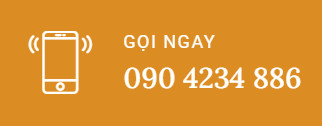
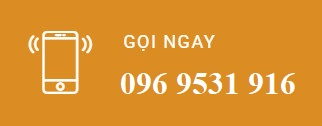
update

Changed region(s): [[0.3727, 0.5238, 0.9317, 0.7619], [0.0932, 0.2381, 0.3106, 0.7619], [0.3727, 0.2619, 0.6832, 0.4048]]

diff --git a/src/components/footer/footer.css b/src/components/footer/footer.css
@@ -11,22 +11,215 @@
     padding: 10px;
     border: 2px solid #535353;
     border-radius: 50%;
-    /* margin: 10px; */
-    /* position: fixed; */
-    /* bottom: 20px;
-    right: 30px;
-    z-index: 99;
-    font-size: 18px;
-    border: none;
-    outline: none;
-    background-color: red;
-    color: white;
-    cursor: pointer;
-    padding: 15px;
-    border-radius: 4px; */
 }
 .fWohKN {
     display: flex;
     justify-content: center;
     align-items: center;
+}
+.zalo {
+    display: block;
+    left: 30px;
+    bottom: 120px;
+    position: fixed;
+    z-index: 8000;
+    text-align: center;
+    height: 40px;
+    line-height: 40px;
+    font-size: 14px;
+    text-shadow: 1px 1px 0 #000;
+    border-radius: 40px;
+    cursor: pointer;
+    max-width: 250px;
+    overflow: hidden;
+    white-space: nowrap;
+    text-overflow: ellipsis;
+    background: #009dff;
+    display: flex;
+    flex-direction: row;
+}
+.zalo img {
+    width: 30px;
+    height: 30px;
+    margin: 5px;
+}
+.zalo span {
+    color: #ffffff;
+    margin: 0 15px 0 5px;
+    align-items: center;
+    text-align: center;
+    justify-content: center;
+    font-weight: 600;
+}
+.zalo a {
+    display: flex;
+    text-decoration: none;
+}
+.hot-phone {
+    position: fixed;
+    bottom: 0;
+    left: 0;
+    z-index: 8001;
+}
+@keyframes quick-alo-circle-anim {
+    0% {
+        -webkit-transform: rotate(0) scale(0.5) skew(1deg);
+        -webkit-opacity: 0.1;
+    }
+    30% {
+        -webkit-transform: rotate(0) scale(0.7) skew(1deg);
+        -webkit-opacity: 0.5;
+    }
+    100% {
+        -webkit-transform: rotate(0) scale(1) skew(1deg);
+        -webkit-opacity: 0.1;
+    }
+}
+@keyframes quick-alo-circle-fill-anim {
+    0% {
+        -webkit-transform: rotate(0) scale(0.7) skew(1deg);
+        opacity: 0.2;
+    }
+    50% {
+        -webkit-transform: rotate(0) scale(1) skew(1deg);
+        opacity: 0.2;
+    }
+    100% {
+        -webkit-transform: rotate(0) scale(0.7) skew(1deg);
+        opacity: 0.2;
+    }
+}
+@keyframes quick-alo-circle-img-anim {
+    0% {
+        transform: rotate(0) scale(1) skew(1deg);
+    }
+    10% {
+        transform: rotate(-25deg) scale(1) skew(1deg);
+    }
+    20% {
+        transform: rotate(25deg) scale(1) skew(1deg);
+    }
+    30% {
+        transform: rotate(-25deg) scale(1) skew(1deg);
+    }
+    40% {
+        transform: rotate(25deg) scale(1) skew(1deg);
+    }
+    50% {
+        transform: rotate(0) scale(1) skew(1deg);
+    }
+    100% {
+        transform: rotate(0) scale(1) skew(1deg);
+    }
+}
+.hotline-phone-ring {
+    position: relative;
+    visibility: visible;
+    background-color: transparent;
+    width: 110px;
+    height: 110px;
+    cursor: pointer;
+    z-index: 11;
+    transition: visibility 0.5s;
+    left: 0;
+    bottom: 0;
+    display: block;
+}
+.quick-alo-ph-circle {
+    top: 0;
+    left: 0;
+    width: 110px;
+    height: 110px;
+    position: absolute;
+    background-color: transparent;
+    border-radius: 100%;
+    border: 2px solid rgba(30, 30, 30, 0.4);
+    opacity: 0.1;
+    animation: quick-alo-circle-anim 1.2s infinite ease-in-out;
+    transition: all 0.5s;
+    transform-origin: 50% 50%;
+    -webkit-border-radius: 100%;
+    -moz-border-radius: 100%;
+    border-radius: 100%;
+    border: 2px solid rgba(30, 30, 30, 0.4);
+    opacity: 0.1;
+}
+
+.quick-alo-ph-circle-fill {
+    background: rgb(216, 32, 0, 0.7) !important;
+    position: absolute;
+    border-radius: 100%;
+    border: 2px solid transparent;
+    opacity: 0.1;
+    animation: quick-alo-circle-fill-anim 2.3s infinite ease-in-out;
+    transition: all 0.5s;
+    transform-origin: 50% 50%;
+}
+
+.quick-alo-ph-img-circle {
+    z-index: 10;
+    top: 31px;
+    left: 31px;
+    width: 50px;
+    height: 50px;
+    background: #337ab7;
+    opacity: 1;
+    display: -webkit-box;
+    display: -webkit-flex;
+    display: -ms-flexbox;
+    display: flex;
+    align-items: center;
+    justify-content: center;
+    background-color: #d82000 !important;
+    position: absolute;
+    border-radius: 100%;
+    border: 2px solid transparent;
+    animation: quick-alo-circle-img-anim 1s infinite ease-in-out;
+    transform-origin: 50% 50%;
+}
+.pps-btn-img {
+    display: flex;
+    transition: all 0.3s ease-in-out;
+    color: #5e2e86;
+    text-decoration: none;
+    background-color: transparent;
+}
+.pps-btn-img img {
+    width: 33px;
+    height: 33px;
+    max-width: 100%;
+    vertical-align: middle;
+    border-style: none;
+}
+.hotline-bar {
+    position: absolute;
+    background: #337ab7;
+    height: 45px;
+    white-space: nowrap;
+    line-height: 40px;
+    border-radius: 3px;
+    padding: 0 10px;
+    background-size: 100%;
+    cursor: pointer;
+    transition: all 0.8s;
+    -webkit-transition: all 0.8s;
+    z-index: 9;
+    border-radius: 50px !important;
+    left: 42px;
+    bottom: 31px;
+    background-color: #d82000 !important;
+    display: block !important;
+}
+.hotline-bar a {
+    color: #fff;
+    text-decoration: none;
+    font-size: 16px;
+    font-weight: bold;
+    text-indent: 32px;
+    letter-spacing: 1px;
+    display: block;
+    line-height: 45px;
+    transition: all 0.3s ease-in-out;
+    background-color: transparent;
+    cursor: pointer;
 }

diff --git a/src/components/footer/Hotline.js b/src/components/footer/Hotline.js
@@ -1,0 +1,39 @@
+import React from "react";
+// import "./index.css";
+import zaloicon from "../../img/zalo.png";
+import phone2 from "../../img/icon-phone2.png";
+const Hotline = () => {
+    return (
+        <div className="hotline-phone">
+            <div className="hot-phone">
+                <div className="hotline-phone-ring">
+                    <div className="quick-alo-ph-circle"></div>
+                    <div className="quick-alo-ph-circle-fill"></div>
+                </div>
+                <div className="quick-alo-ph-img-circle">
+                    <a className="pps-btn-img" href="tel:0969531916">
+                        <img src={phone2} alt="Số điện thoại" width="50" />
+                    </a>
+                </div>
+                <div className="hotline-bar">
+                    <a href="tel:0969531916">
+                        <span className="text-hotline">096 9531 916</span>
+                    </a>
+                </div>
+            </div>
+            <div className="zalo">
+                <a
+                    // without="true"
+                    rel="noopener noreferrer"
+                    target="_blank"
+                    href="https://zalo.me/0987978613"
+                >
+                    {" "}
+                    <img src={zaloicon} alt="zalo" />
+                    <span>Chat Zalo</span>
+                </a>
+            </div>
+        </div>
+    );
+};
+export default Hotline;

diff --git a/src/components/content/index/Home.js b/src/components/content/index/Home.js
@@ -311,9 +311,9 @@ const DauTuSinhLoi = () => {
                     tiến độ 6 đợt trong 15 tháng không mất lãi.
                 </p>
                 <div className="width-58 padding-15">
-                    <a href="tel:0904234886" target="_self">
+                    <a href="tel:0969531916" target="_self">
                         <button className="text-700-24-38 btn-tel">
-                            GỌI NGAY 090 4234 886
+                            GỌI NGAY 096 9531 916
                         </button>
                     </a>
                 </div>
@@ -399,13 +399,13 @@ const Contact = () => {
                     <p className="text-400-16-26">
                         Với đội ngũ tư vấn chuyên nghiệp
                     </p>
-                    <a href="tel:0904234886" className="text-700-16-25 link">
+                    <a href="tel:0969531916" className="text-700-16-25 link">
                         <img
                             className="icon-phone"
                             src={iconphone}
                             alt="Phone"
                         />
-                        HOTLINE : 090 4234 886
+                        HOTLINE : 096 9531 916
                     </a>
                 </div>
 

diff --git a/src/components/content/news/DatNenDanko.js b/src/components/content/news/DatNenDanko.js
@@ -91,7 +91,7 @@ const DatNenDanko = ({ setHash }) => {
                             <br />
                             Thời điểm bàn giao: Quý III, 2021
                             <br />
-                            Hotline:090 4234 886
+                            Hotline: 096 9531 916
                         </p>
 
                         <p>
@@ -136,7 +136,7 @@ const DatNenDanko = ({ setHash }) => {
                             bộ, wifi phủ sóng toàn bộ, camera an ninh 24/7. –
                             Đóng tiền 6 đợt trong 15 tháng, vào hợp đồng chỉ từ
                             400 triệu, tính thanh khoản và tiềm năng tăng giá
-                            cao – Hotline ban kinh doanh: 090 4234 886
+                            cao – Hotline ban kinh doanh: 096 9531 916
                         </p>
                         <p>
                             Việc quy hoạch một khu đô thị cao cấp tại Thái

diff --git a/src/components/forminfo/forminfo.css b/src/components/forminfo/forminfo.css
@@ -33,8 +33,7 @@
     background-color: #efefef;
     font-family: "Noto Sans";
     position: relative;
-    z-index: 9999;
-    /* top: 25%; */
+    z-index: 9003;
     transition: all 0.2s ease-in-out;
     transform: translate(0, 0px);
 }
@@ -61,10 +60,8 @@
 .head-info div {
     padding: 5px 10px;
     text-align: center;
-    /* margin: auto; */
     color: #ffffff;
     background-color: #e09e1a;
-    /* height: 100%; */
     display: flex;
     align-items: center;
     justify-content: center;

diff --git a/src/App.js b/src/App.js
@@ -13,6 +13,7 @@ import {
     Redirect,
 } from "react-router-dom";
 import Footer from "./components/footer/Footer";
+import Hotline from "./components/footer/Hotline";
 // import { Drawer } from "antd";
 // import Header from "./components/header/Header";
 // const Home = React.lazy(() => import("./components/content/index/Home"));
@@ -122,6 +123,7 @@ function App() {
                 </BackToTop> */}
             </Router>
             <Footer />
+            <Hotline />
         </div>
     );
 }

diff --git a/src/components/content/index/header/Header.js b/src/components/content/index/header/Header.js
@@ -20,7 +20,7 @@ const Header = () => {
                             <img src={chietkhautoi} alt="Chiết khấu" />
                         </div>
                         <div className="head-call-now">
-                            <a href="tel:0904234886">
+                            <a href="tel:0969531916">
                                 <img src={goingay} alt="Gọi ngay" />
                             </a>
                         </div>

diff --git a/src/components/content/news/news.css b/src/components/content/news/news.css
@@ -164,6 +164,7 @@
     margin: 0 0 1.3em 0;
 }
 .near-page {
+    margin: 50px 0;
     padding: 0.7em 0;
     border-top: 1px solid #ececec;
     border-bottom: 1px solid #ececec;
